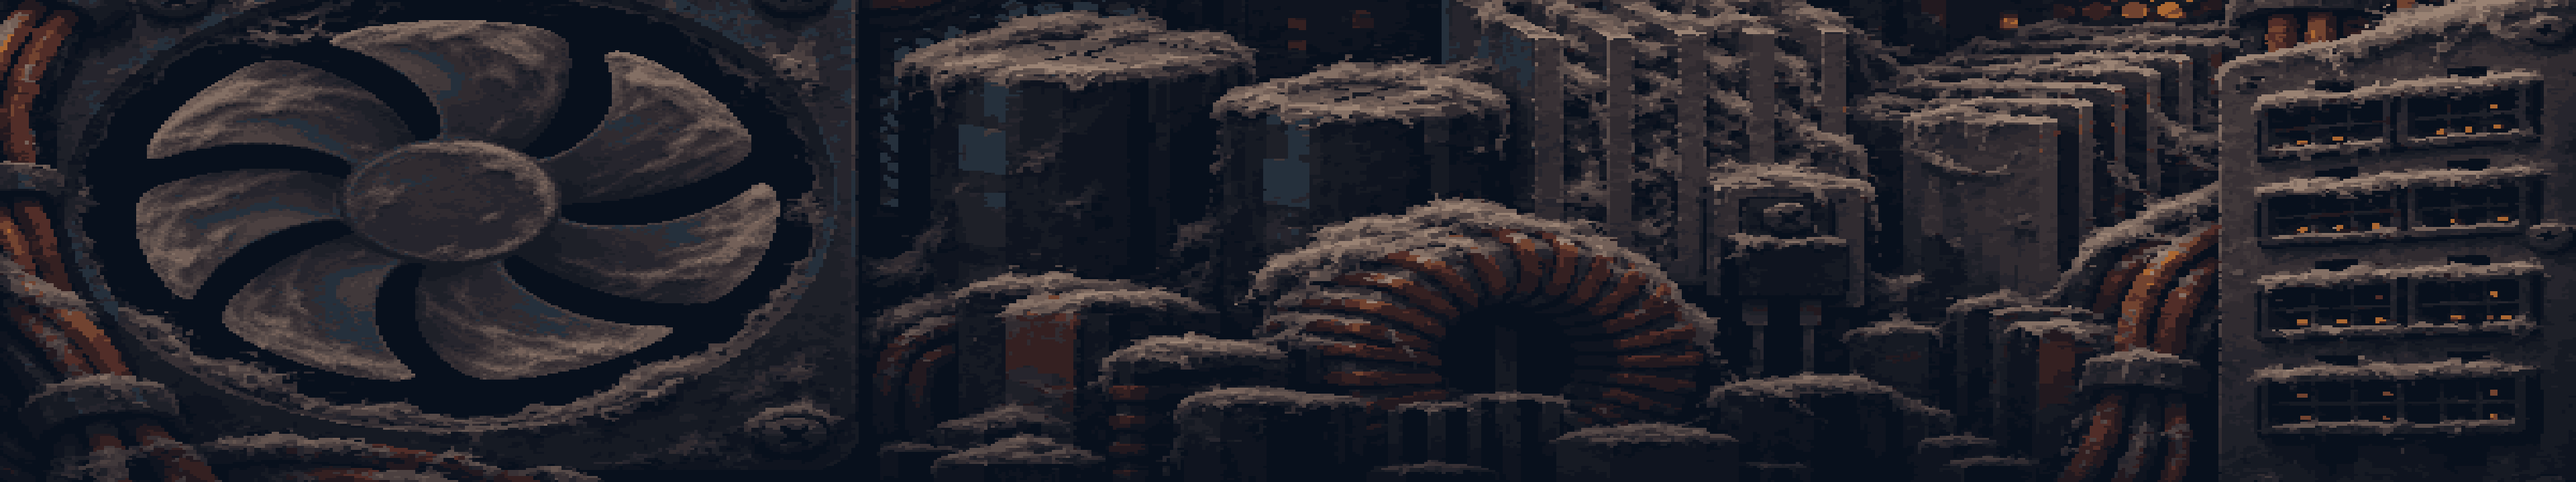
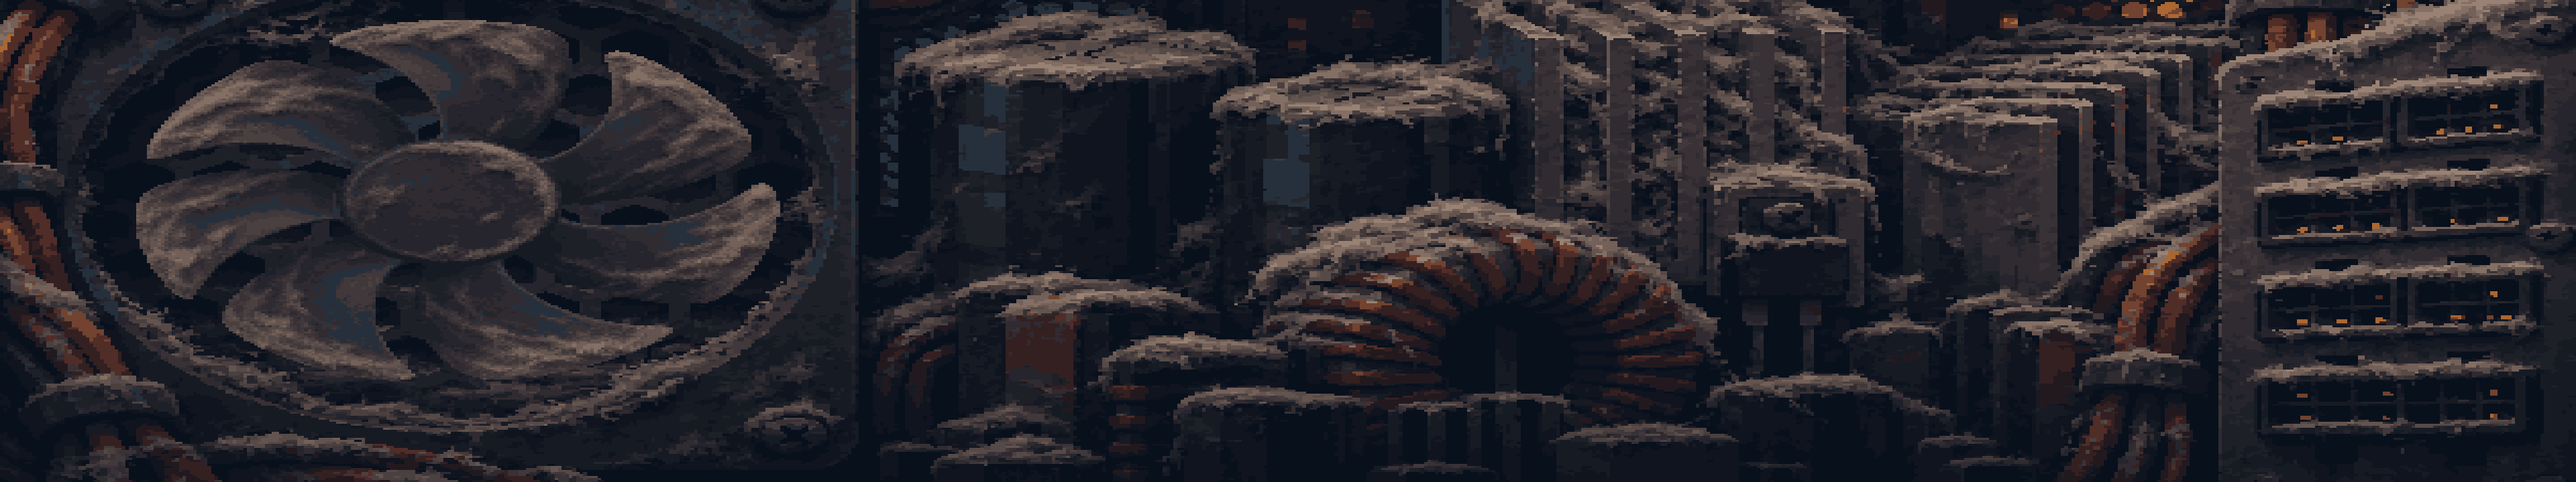
art(level): 흡기 팬 뒤에 먼지 낀 통풍망 추가
팬 개구부의 어두운 원경에 고정 통풍망을 합성해 날개 너머로 내부 구조가 보이게 한다. 원경 팔레트로 가공하고 개구부 내부 21,704픽셀만 바꾼다.

실제 SDL 100프레임에서 팬 회전과 통풍망의 고정 위치를 확인했다. 맵 번들 검증과 Tiled 재렌더 픽셀 대조를 통과했다. 전체 회귀와 사용자 직접 플레이는 수행하지 않았다.

diff --git a/docs/progress.md b/docs/progress.md
@@ -4,7 +4,7 @@
 
 ## 현재 단계
 
-- **파워서플라이 먼지·흡기 팬:** 2026-11-24 요청과 사용자 피드백으로 바닥·발판에 낮은 보풀과 먼지 띠를 배치했다. 원경 부품에도 먼지층을 더했다. 팬 날개와 허브에 붙은 먼지는 회전자와 함께 돌고, 팬 금속과 먼지는 원경 팔레트의 12색을 사용한다. [실제 게임의 팬](../art/levels/power-supply/dust-revision/rotor-grade/fan-in-game.gif) · [레벨 검증](../specs/021-power-supply-level/verification.md#먼지와-흡기-팬-후속-검증).
+- **파워서플라이 먼지·흡기 팬:** 2026-11-24 요청과 사용자 피드백으로 바닥·발판에 낮은 보풀과 먼지 띠를 배치했다. 원경 부품에도 먼지층을 더했다. 팬 금속과 먼지는 원경 팔레트의 12색을 사용하며, 회전하는 날개 뒤로 먼지 낀 고정 통풍망이 보인다. [실제 게임의 팬](../art/levels/power-supply/dust-revision/fan-cavity/fan-in-game.gif) · [레벨 검증](../specs/021-power-supply-level/verification.md#먼지와-흡기-팬-후속-검증).
 
 - **첫 레벨 전원 구역:** 2026-11-24 사용자 요청으로 컴퓨터 파워서플라이 내부를 기본 실행에 연결하고 환경 원화에 hi-bit 가공을 적용했다. 흡기구, 방열판, 코일·콘덴서, 출력 단자를 배치했다. [명세](../specs/021-power-supply-level/spec.md) · [계획](../specs/021-power-supply-level/plan.md) · [검증](../specs/021-power-supply-level/verification.md).
 
